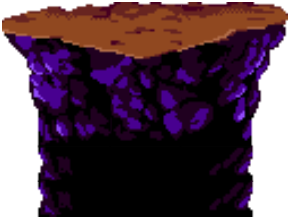
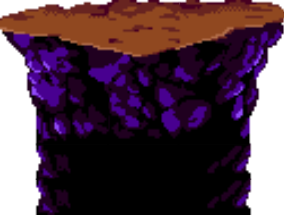
plat and player sprites change with the canvas size

diff --git a/Backend/spa/www/js/magicDuel/game/game.js b/Backend/spa/www/js/magicDuel/game/game.js
@@ -8,8 +8,8 @@ class Game {
         this.P1 = P1;
         this.P2 = P2;
         this.isRunning = false;
-        this.back = new Image();
-        this.plat = new Image();
+        this.back = new Image(gameCanvas.width, gameCanvas.height);
+        this.plat = new Image(282, 215);
         this.assetsPath = window.MAGICDUEL_ASSETS;
         this.back.src = '../assets/magicDuel/map/back.png';
         this.plat.src = '../assets/magicDuel/map/plat_little.png';
@@ -132,6 +132,11 @@ class Game {
             return this.P2;
     }
 
+    updateImageSize(gameCanvas) {
+        this.back.width = gameCanvas.width;
+        this.back.height = gameCanvas.height;
+    }
+
     displayWinner(winner) {
         const endElement = document.getElementById('end-container');
         const gameCanvas = document.getElementById('gameCanvas');
@@ -168,8 +173,23 @@ class Game {
         if (elapsed >= this.frameInterval) {
             this.gameCtx.clearRect(0, 0, this.gameCanvas.width, this.gameCanvas.height);
 
-            this.gameCtx.drawImage(this.plat, this.gameCanvas.width * (3/100), this.gameCanvas.height * (72/100));
-            this.gameCtx.drawImage(this.plat, this.gameCanvas.width * (76/100), this.gameCanvas.height * (72/100));
+            let scaleFactor = this.gameCanvas.width / 1400;
+            let newPlatWidth = this.plat.width * scaleFactor;
+            let newPlatHeight = this.plat.height * scaleFactor;
+            this.gameCtx.drawImage(
+                this.plat, 
+                this.gameCanvas.width * 0.05, 
+                this.gameCanvas.height - (newPlatHeight - 5),
+                newPlatWidth, 
+                newPlatHeight
+            );
+            this.gameCtx.drawImage(
+                this.plat, 
+                this.gameCanvas.width * 0.95 - newPlatWidth, 
+                this.gameCanvas.height - (newPlatHeight - 5),
+                newPlatWidth,
+                newPlatHeight
+            );
             this.P1.updateAnimation(this.gameCtx);
             this.P2.updateAnimation(this.gameCtx);
 

diff --git a/Backend/spa/www/js/magicDuel/game/player.js b/Backend/spa/www/js/magicDuel/game/player.js
@@ -22,13 +22,21 @@ class Player {
         this.currentAttackSprite = null;
     }
 
-    updatePos(canvas) {
+    updatePos(canvas, plat) {
         this.canvas = canvas;
+        let scaleFactor = canvas.width / 1400;
+        let newPlatWidth = plat.width * scaleFactor;
+        let newPlatHeight = plat.height * scaleFactor;
+        let spriteWidth = 231 * scaleFactor;
+        let spriteHeight = 190 * scaleFactor;
+
         if (this.nb === 1) {
-            this.x = canvas.width * (1 / 100);
+            this.x = canvas.width * 0.05 + newPlatWidth / 2 - spriteWidth / 1.2;
         } else
-            this.x = canvas.width * (72 / 100);
-        this.y = canvas.height * (40 / 100);
+            this.x = canvas.width * 0.95 - newPlatWidth / 2 - spriteWidth / 1.2;
+        
+        let marginAbovePlatform = newPlatHeight * 0.1;
+        this.y = canvas.height - newPlatHeight - spriteHeight - marginAbovePlatform;
     }
 
     updateAnimation(ctx) {

diff --git a/Backend/spa/www/js/magicDuel/game/sprite.js b/Backend/spa/www/js/magicDuel/game/sprite.js
@@ -13,15 +13,16 @@ class Sprite {
         this.isLooping = isLooping;
     }
 
-    drawSprite(ctx, canvasX, canvasY, scale) {
+    drawSprite(canvas, ctx, canvasX, canvasY) {
+        let scaleFactor = canvas.width / 800;
         const sx = this.currentFrame * this.frameWidth;
         const sy = 0;
         const sWidth = this.frameWidth;
         const sHeight = this.frameHeight;
         const dx = canvasX;
         const dy = canvasY;
-        const dWidth = this.frameWidth * scale;
-        const dHeight = this.frameHeight * scale;
+        const dWidth = this.frameWidth * scaleFactor;
+        const dHeight = this.frameHeight * scaleFactor;
         ctx.drawImage(
             this.sprite,
             sx, sy,

diff --git a/Backend/spa/www/css/magicDuel/styles.css b/Backend/spa/www/css/magicDuel/styles.css
@@ -393,7 +393,7 @@ body {
     font-size: 24px;
     text-align: center;
     z-index: 9;
-    font-size: 2rem;
+    font-size: 2.5vw;
     font-family: 'Press Start 2P';
 }
 
@@ -403,7 +403,7 @@ body {
     left: 50%;
     transform: translateX(-50%);
     color: white;
-    font-size: 2rem;
+    font-size: 2vw;
     text-align: center;
     z-index: 9;
     font-family: 'Press Start 2P';
@@ -427,7 +427,6 @@ body {
 }
 
 .hud-items span {
-    font-size: 2em;
     overflow: hidden;
     text-overflow: ellipsis;
     white-space: nowrap;
@@ -757,7 +756,7 @@ body {
 
 .title-book span {
     font-family: "Press Start 2P";
-    font-size: 3em;
+    font-size: 2vw;
 }
 
 .instructions {

diff --git a/Backend/spa/www/js/magicDuel/game/animation.js b/Backend/spa/www/js/magicDuel/game/animation.js
@@ -48,13 +48,13 @@ class Animation {
         }
 
         if (spriteToDraw) {
-            spriteToDraw.drawSprite(ctx, obj.x, obj.y, this.scale)
+            spriteToDraw.drawSprite(obj.canvas, ctx, obj.x, obj.y)
         }
 
         if (attackSprite) {
             const attackX = (obj.x + (this.IdleP1.frameWidth * this.scale) / 2) - (attackSprite.frameWidth * this.scale) / 2;
             const attackY = (obj.y + (this.IdleP1.frameHeight * this.scale) / 2) - (attackSprite.frameHeight * this.scale) / 2;
-            attackSprite.drawSprite(ctx, attackX, attackY, this.scale);
+            attackSprite.drawSprite(obj.canvas, ctx, attackX, attackY);
         }
     }
 

diff --git a/Backend/spa/www/js/magicDuel/main.js b/Backend/spa/www/js/magicDuel/main.js
@@ -361,9 +361,10 @@ function resizeCanvas() {
 	});
 
 	if (currentGame) {
+		currentGame.updateImageSize(gameCanvas);
 		currentGame.updateCanvas(gameCanvas, attackCanvas);
-		currentGame.P1.updatePos(gameCanvas);
-		currentGame.P2.updatePos(gameCanvas);
+		currentGame.P1.updatePos(gameCanvas, currentGame.plat);
+		currentGame.P2.updatePos(gameCanvas, currentGame.plat);
 	}
 }
 
